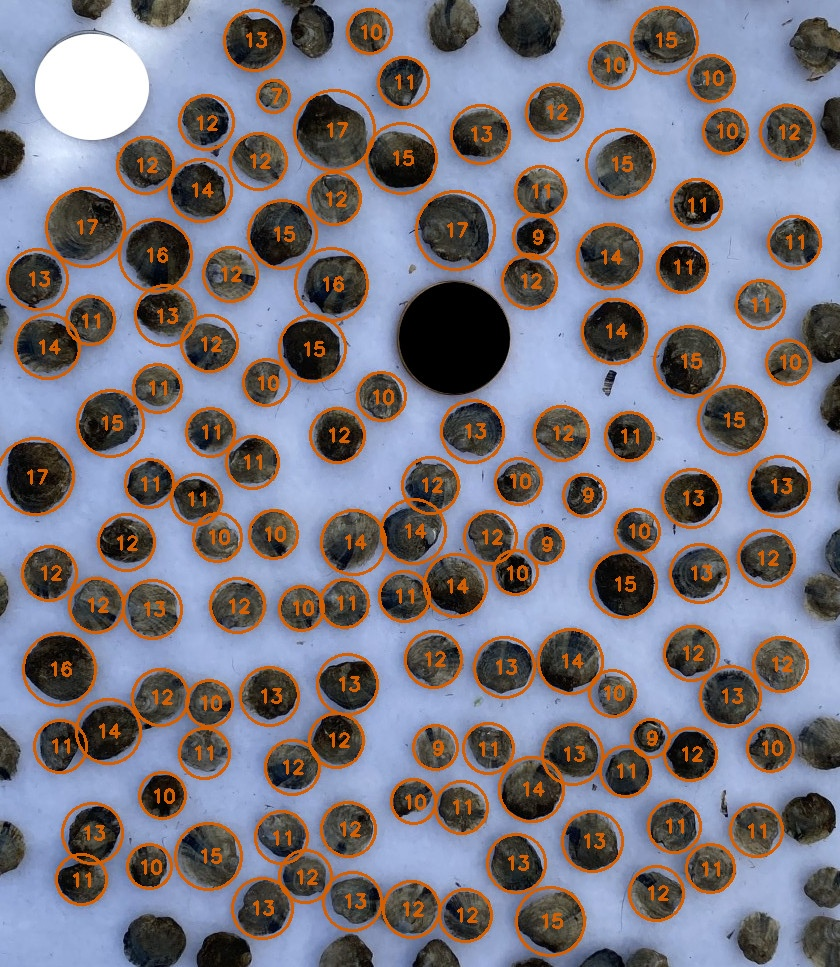
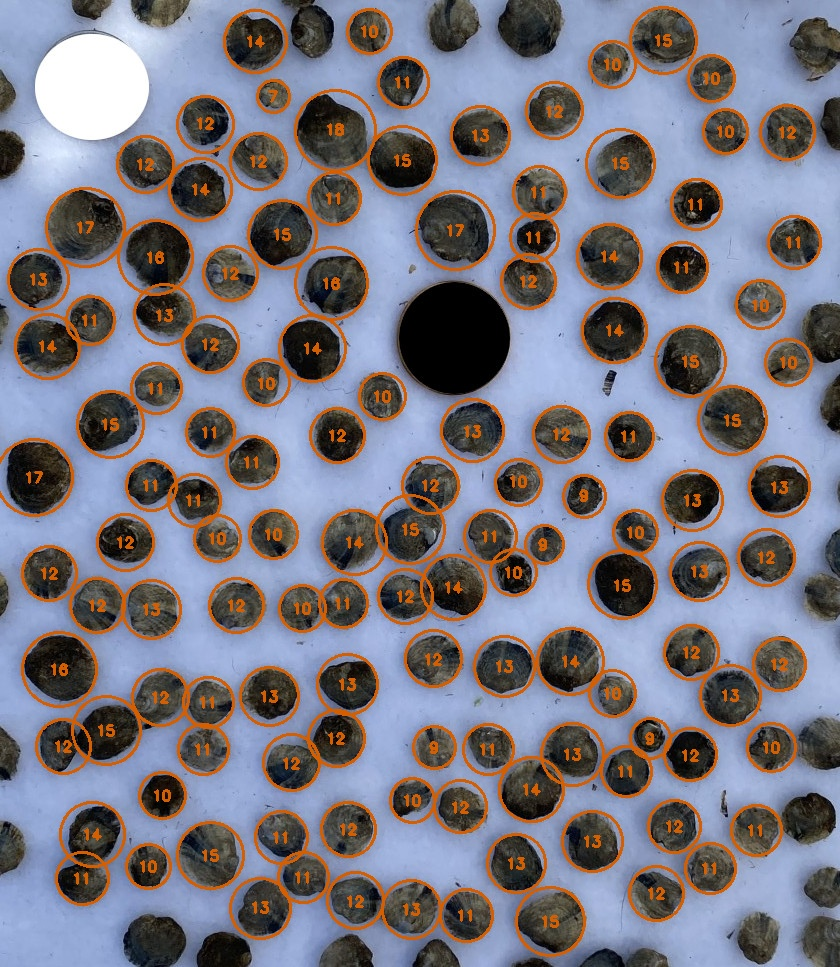
v 0.0.3: update screenshots; improve line thickness for file size

diff --git a/utility_modules/manage.py b/utility_modules/manage.py
@@ -127,13 +127,16 @@ def input_metrics() -> dict:
 
     # Scaling factors for contours, circles, and text; empirically determined.
     size_factor = 5.5e-04
-    line_thickness_factor = 1.5e-03
+    # line_thickness_factor = 1.5e-03
+    line_thickness_factor = 2e-03
+
 
     # manage.arguments() has verified the image path, so read from it.
     input_img = cv2.imread(arguments()['input'])
     gray_img = cv2.cvtColor(input_img, cv2.COLOR_RGBA2GRAY)
     fig_width: int = gray_img.shape[1]
 
+    # Set maximum enclosing circle radius to 1/2 the shortest image dimension.
     max_circle_r: int = round(min(gray_img.shape) / 2)
 
     line_thickness: int = max(round(fig_width * line_thickness_factor), 1)

diff --git a/README.md b/README.md
@@ -88,9 +88,9 @@ As with all repository downloads, it is a good idea to install the requirements 
 ### Screenshots:
 All screenshots are from an Ubuntu Linux platform. For Windows and macOS platforms, window and widget look or layout may be slightly different.
 
-![report&settings_screenshot](images/report&settings_screenshot.jpg)
+![report&settings_screenshot](images/report&settings_screenshot.png)
 
-Above, the report and settings window, using default settings with the following exceptions to report accurate sample count and size metrics: the Sacagawea dollar size standard was selected, its observed pixel diameter of 128 was entered, and it was excluded from the reported object size metrics by reducing the 'Contour area size maximum' until the coin no longer was annotated with its size (27 mm). The standard's pixel diameter of 128 was obtained from the initial result window when initial default settings were in effect.
+Above, the report and settings window, using default settings with the following exceptions to report accurate sample count and size metrics: the Sacagawea dollar size standard was selected, its observed pixel diameter of 128 was entered, and it was excluded from the reported object size metrics by reducing the 'Circled radius size maximum' until the coin no longer was annotated with its size (27 mm). The standard's pixel diameter of 128 was obtained from the initial result window when initial default settings were in effect.
 
 Command used, for default image, scale, and color: `python3 -m size_it`, which is equivalent to `python3 -m size_it --input images/sample1.jpg --scale 0.5 --color red`
 
@@ -106,33 +106,33 @@ Below, text output from the saved settings file for the above image, includes pa
 ![sample3_result_screenshot.png](images/sample3_result_screenshot.jpg)
 
 <pre>
-Time saved: 05:12:08PM
-Saved image file: sample3_sizes_051208.jpg
+Time saved: 05:50:07PM
+Saved image file: sample3_sizes_055007.jpg
 Saved settings file: sample3_sizes_settings.txt
-Image: images/sample3.jpg 967x840 px
+Image: images/sample3.jpg 967x840
 
-Contrast:              convertScaleAbs alpha=1.7, beta=0
+Contrast:              convertScaleAbs alpha=1.6, beta=0
 Noise reduction:       cv2.getStructuringElement ksize=5,
                        cv2.getStructuringElement shape=cv2.MORPH_RECT
                        cv2.morphologyEx iterations=2
                        cv2.morphologyEx op=cv2.MORPH_OPEN,
-Filter:                cv2.blur ksize=(5,5)
+Filter:                cv2.blur ksize=(7,7)
 cv2.threshold:         type=cv2.THRESH_OTSU_INVERSE
 cv2.distanceTransform: distanceType=cv2.DIST_L2, maskSize=3
 skimage functions:
-   peak_local_max:     min_distance=21
+   peak_local_max:     min_distance=25
                        footprint=np.ones((3, 3), np.uint8
    watershed:          connectivity=4
                        compactness=0.03
 ════════════════════
-Total distT segments:  180 <- Match selected objects for better sizing.
-Contour area range:    500--9463 pixels
+Total distT segments:  158 <- Match  # selected objects for better sizing.
+Circled radius range:  11--56 pixels
 Selected size std.:    Sacagawea $, 26.49 unit dia.
-                       Pixel dia. entered: 119, unit/px factor: 0.22
+                       Pixel diameter entered: 119, unit/px factor: 0.22
 # Selected objects:    127
-Object size metrics,   mean: 12.2, median: 12, range: 6.9--17.4
+Object size metrics,   mean: 12.2, median: 12, range: 6.8--17.5
 </pre>
-`6.9, 8.5, 8.6, 9.2, 9.5, 9.5, 9.5, 9.7, 9.7, 9.7, 9.8, 9.8, 9.8, 9.8, 9.9, 9.9, 10.0, 10.1, 10.1, 10.1, 10.1, 10.3, 10.4, 10.4, 10.5, 10.5, 10.6, 10.6, 10.7, 10.7, 10.7, 10.7, 10.7, 10.9, 10.9, 11.0, 11.0, 11.0, 11.1, 11.1, 11.1, 11.1, 11.2, 11.3, 11.4, 11.4, 11.4, 11.4, 11.4, 11.5, 11.5, 11.6, 11.6, 11.6, 11.6, 11.7, 11.8, 11.8, 11.9, 11.9, 11.9, 11.9, 11.9, 11.9, 11.9, 12.0, 12.0, 12.0, 12.0, 12.1, 12.1, 12.2, 12.2, 12.3, 12.3, 12.3, 12.3, 12.4, 12.4, 12.4, 12.6, 12.6, 12.6, 12.6, 12.8, 12.8, 12.9, 13.0, 13.0, 13.0, 13.1, 13.1, 13.2, 13.2, 13.2, 13.2, 13.4, 13.4, 13.4, 13.6, 13.8, 13.9, 13.9, 14.0, 14.1, 14.2, 14.2, 14.2, 14.2, 14.6, 14.6, 14.6, 14.7, 14.7, 14.8, 14.8, 15.0, 15.2, 15.3, 15.3, 15.6, 15.9, 16.0, 16.6, 17.0, 17.2, 17.4`
+`6.8, 8.5, 8.6, 9.0, 9.4, 9.5, 9.7, 9.8, 9.8, 9.8, 10.0, 10.0, 10.0, 10.0, 10.1, 10.1, 10.2, 10.2, 10.3, 10.3, 10.3, 10.3, 10.4, 10.5, 10.5, 10.6, 10.7, 10.7, 10.8, 10.8, 10.8, 10.8, 10.9, 11.0, 11.0, 11.1, 11.1, 11.1, 11.1, 11.2, 11.2, 11.3, 11.3, 11.3, 11.3, 11.3, 11.4, 11.4, 11.4, 11.4, 11.5, 11.5, 11.6, 11.6, 11.7, 11.7, 11.7, 11.8, 11.8, 11.8, 11.8, 11.9, 11.9, 11.9, 12.0, 12.0, 12.1, 12.1, 12.1, 12.2, 12.2, 12.2, 12.3, 12.3, 12.3, 12.3, 12.4, 12.4, 12.4, 12.4, 12.6, 12.7, 12.7, 12.7, 12.7, 12.9, 13.0, 13.0, 13.0, 13.1, 13.1, 13.1, 13.2, 13.2, 13.4, 13.5, 13.5, 13.6, 13.7, 13.9, 14.0, 14.1, 14.1, 14.2, 14.2, 14.3, 14.4, 14.5, 14.5, 14.6, 14.7, 14.8, 14.8, 14.8, 14.9, 15.0, 15.0, 15.0, 15.2, 15.2, 15.6, 16.1, 16.4, 16.6, 17.0, 17.1, 17.5`
 
 ### Known Issues:
 Waiting for user feedback.
